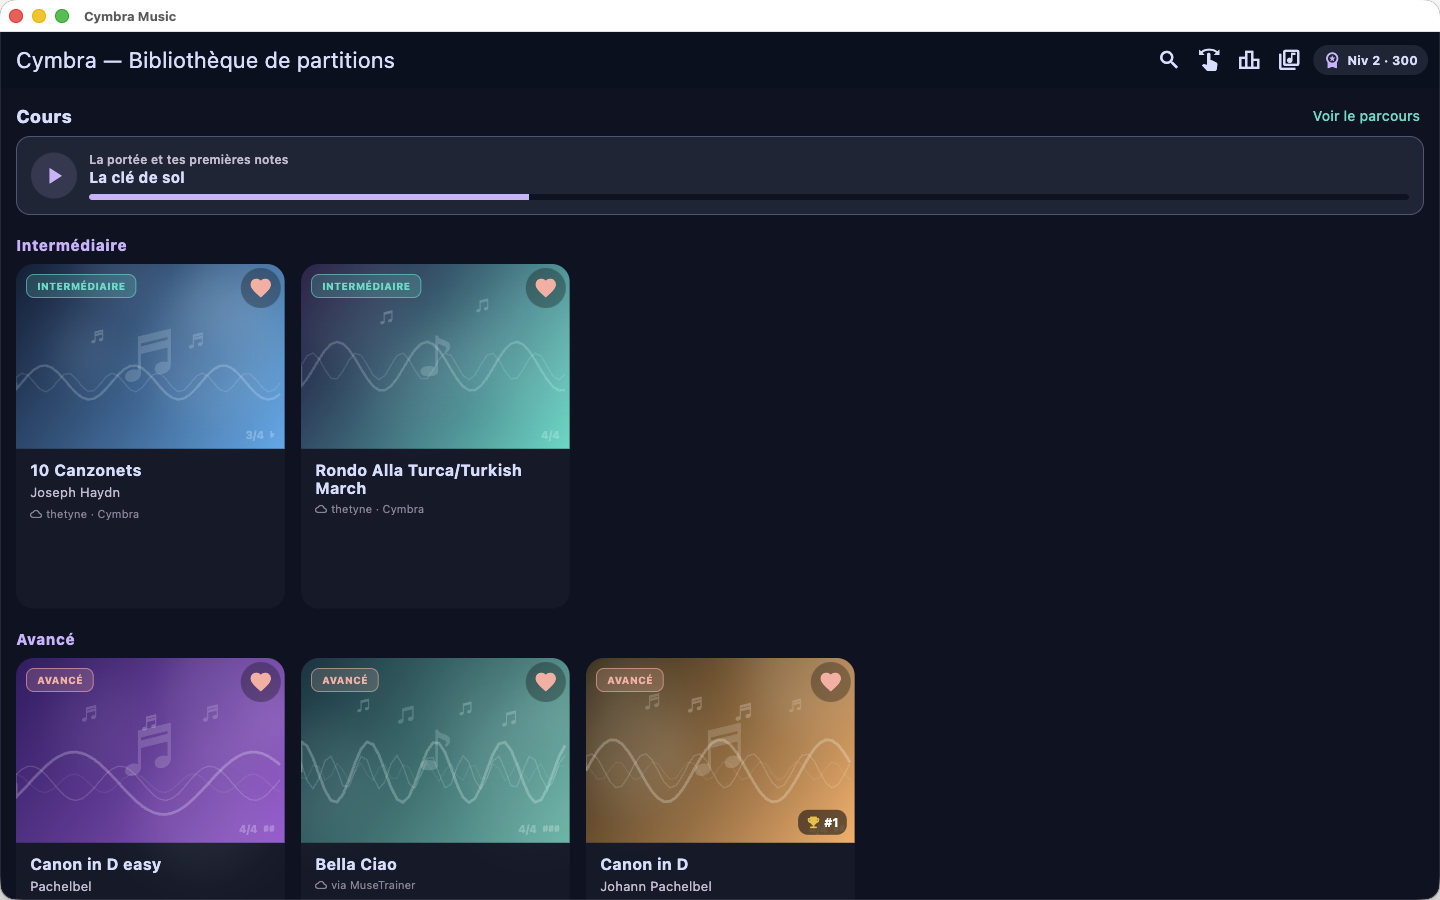
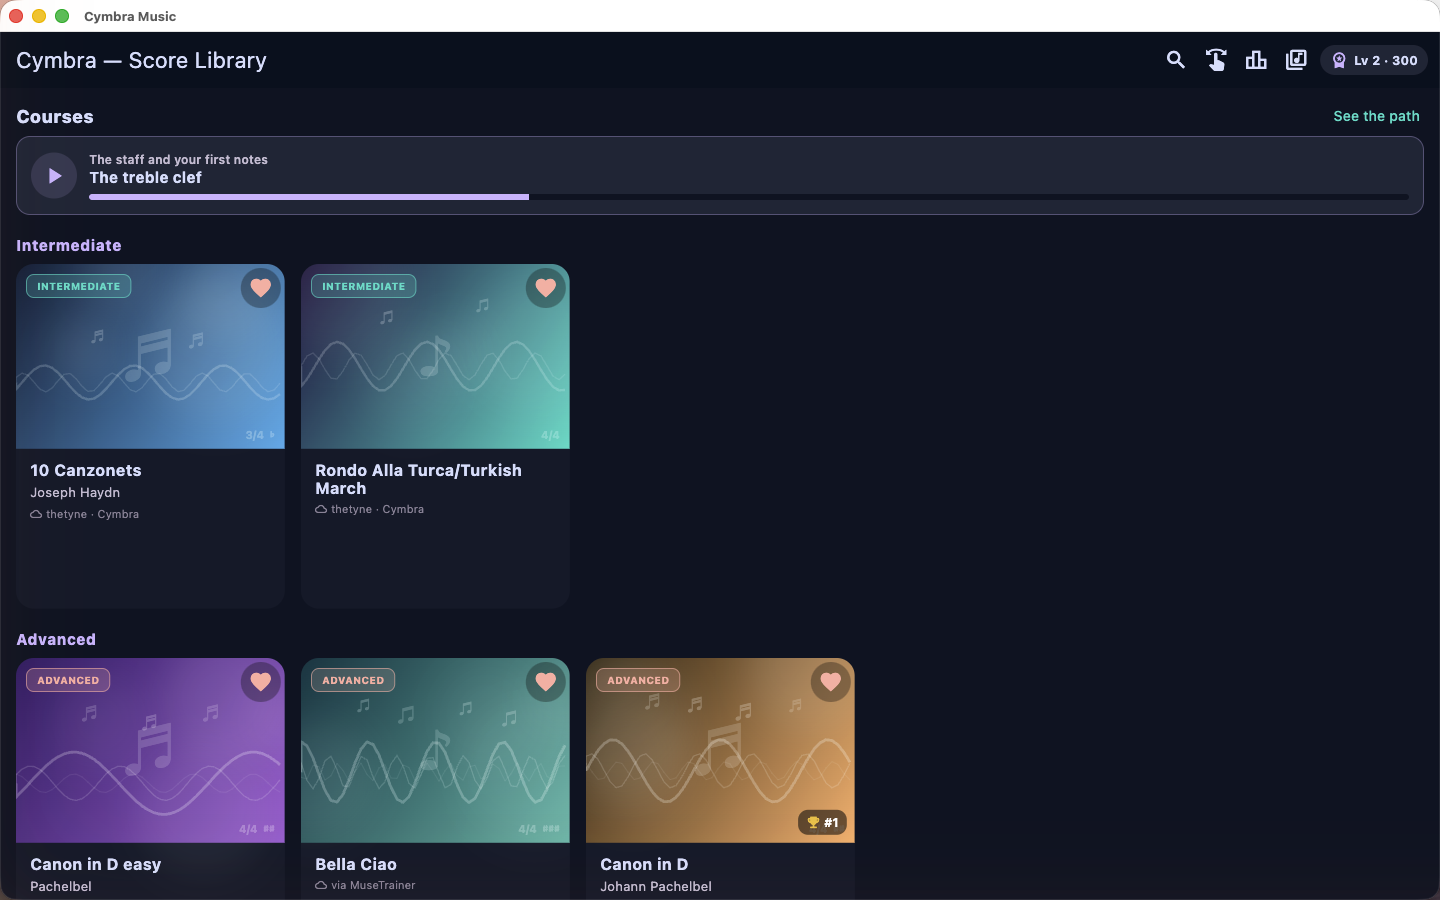
feat(music): re-take the macOS store screenshots in English
The first set was captured with the app in French; the Mac App Store
listing is authored in English first. Also fixes two defects in that set:
one shot had grey traffic lights (window not focused at capture time),
and playback had been left running long enough for the end-of-session
summary ("0% · 268 missed") to cover the view.

Both traps are now written down in store/README.md next to the capture
recipe, along with the note that only the en locale is covered.

diff --git a/apps/music/store/README.md b/apps/music/store/README.md
@@ -22,7 +22,7 @@ store/
 - [x] Play feature graphic (1024×500)
 - [x] iOS screenshots — **6.7" iPhone** (`ios/iphone_6.7/`, 2796×1290) and **12.9" iPad** (`ios/ipad_12.9/`, 2732×2048), landscape. Captured from the iPhone 15 Pro Max and iPad Pro 12.9" simulators: score library, Synthesia falling-notes, staff, and (iPad) full-score "Partition" view.
 - [x] Android phone screenshots — `android/phone/` (2160×1080, landscape): score library, Synthesia, staff. Captured on the Pixel 3a emulator, cropped to exactly 2:1 (Play caps the long:short side ratio at 2:1; the raw 2220×1080 was 2.06:1) with a demo-mode clean status bar.
-- [x] macOS screenshots — `macos/` (1440×900, one of the four sizes the Mac App Store accepts): score library, Synthesia falling-notes, staff, full-score "Partition". Captured from a release build of the real app against a local backend, window pinned to 1440×900.
+- [x] macOS screenshots — `macos/` (1440×900, one of the four sizes the Mac App Store accepts): score library, Synthesia falling-notes, staff, full-score "Partition". **English UI**, captured from a release build of the real app against a local backend, window pinned to 1440×900. Only the `en` locale is covered — fr/it/es listings reuse these unless localized sets are captured later.
 - [x] Listing copy under `copy/` — **en, fr, it, es** (all four shipping locales): name, subtitle, short/promo, keywords, full description, categories, all within store char limits.
 
 ## Categories (decided)
@@ -35,11 +35,18 @@ store/
 
 ## Known caveat on the macOS captures
 
-The three player screenshots show **"Aucun appareil MIDI"** and **"0%"** in the
-top bar, because they were taken without a MIDI keyboard connected. Both are
-truthful UI, but they read as a warning and a bad score on a store page. Re-take
-them with a keyboard plugged in (and a few correct notes played) before the
-listing goes live.
+The three player screenshots show **"No MIDI device"** and **"0%"** in the top
+bar, because they were taken without a MIDI keyboard connected. Both are truthful
+UI, but they read as a warning and a bad score on a store page. Re-take them with
+a keyboard plugged in (and a few correct notes played) before the listing goes
+live.
+
+Two things that silently ruin a capture, both hit during the first pass:
+- Take the shot while the window is **focused**, or the traffic lights render grey
+  and the window reads as inactive. Run `open <path>.app` immediately before
+  `screencapture`.
+- Don't leave playback running between shots. The piece reaches its end and the
+  session summary ("0% · 268 missed") covers the view.
 
 ## Reproducing the macOS captures
 
